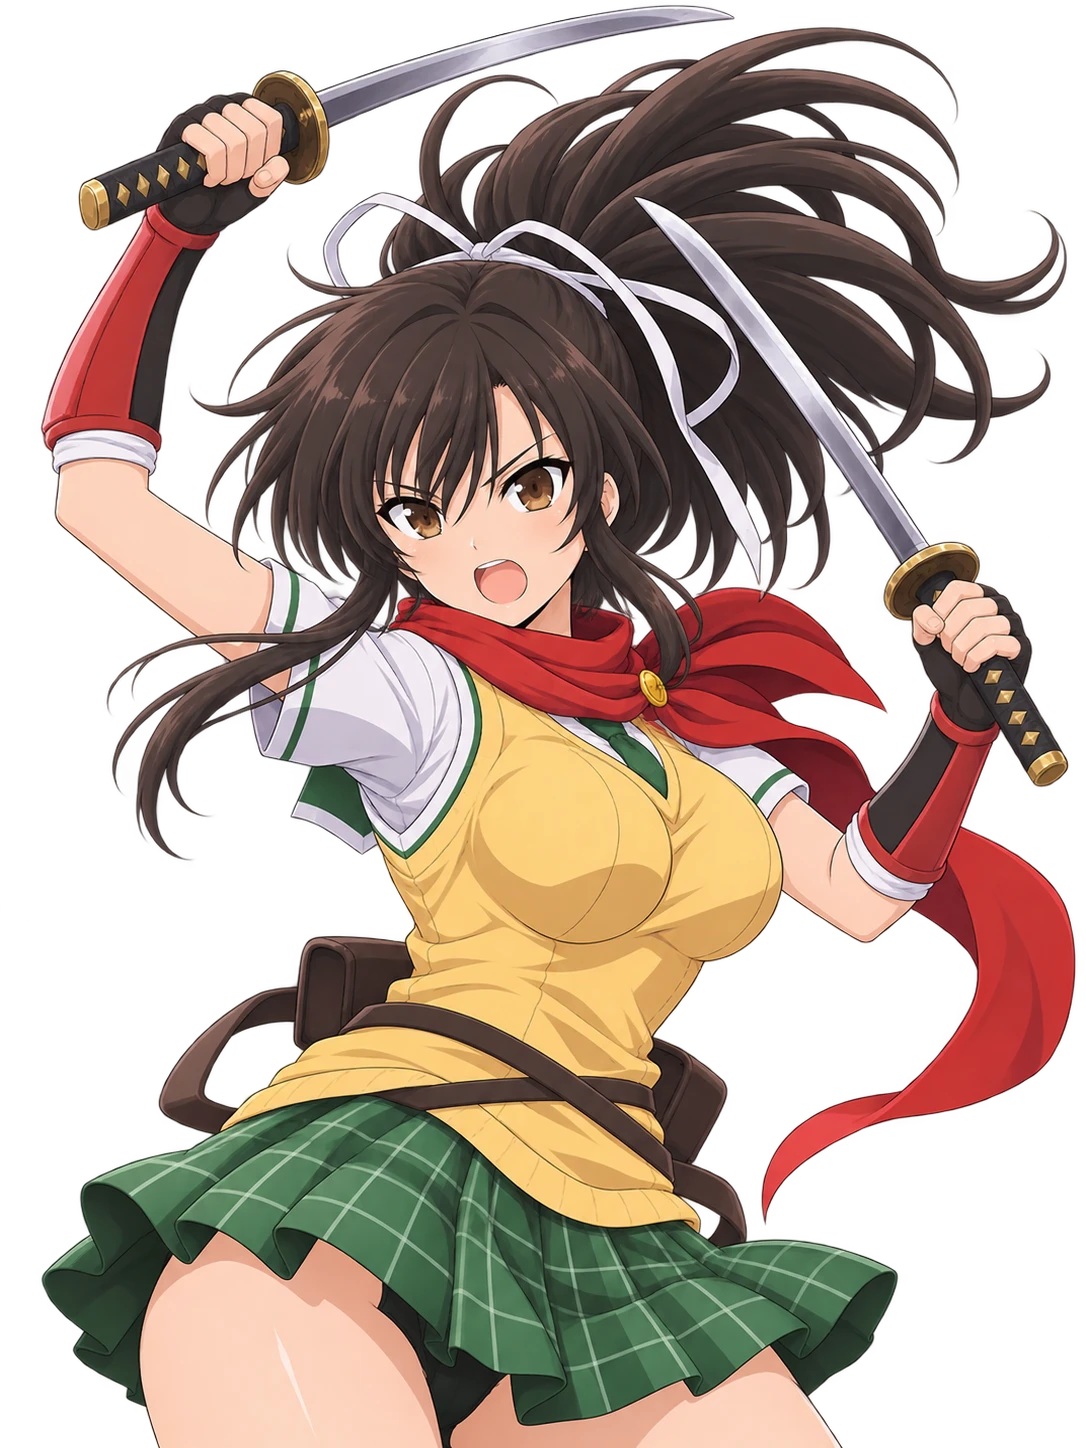
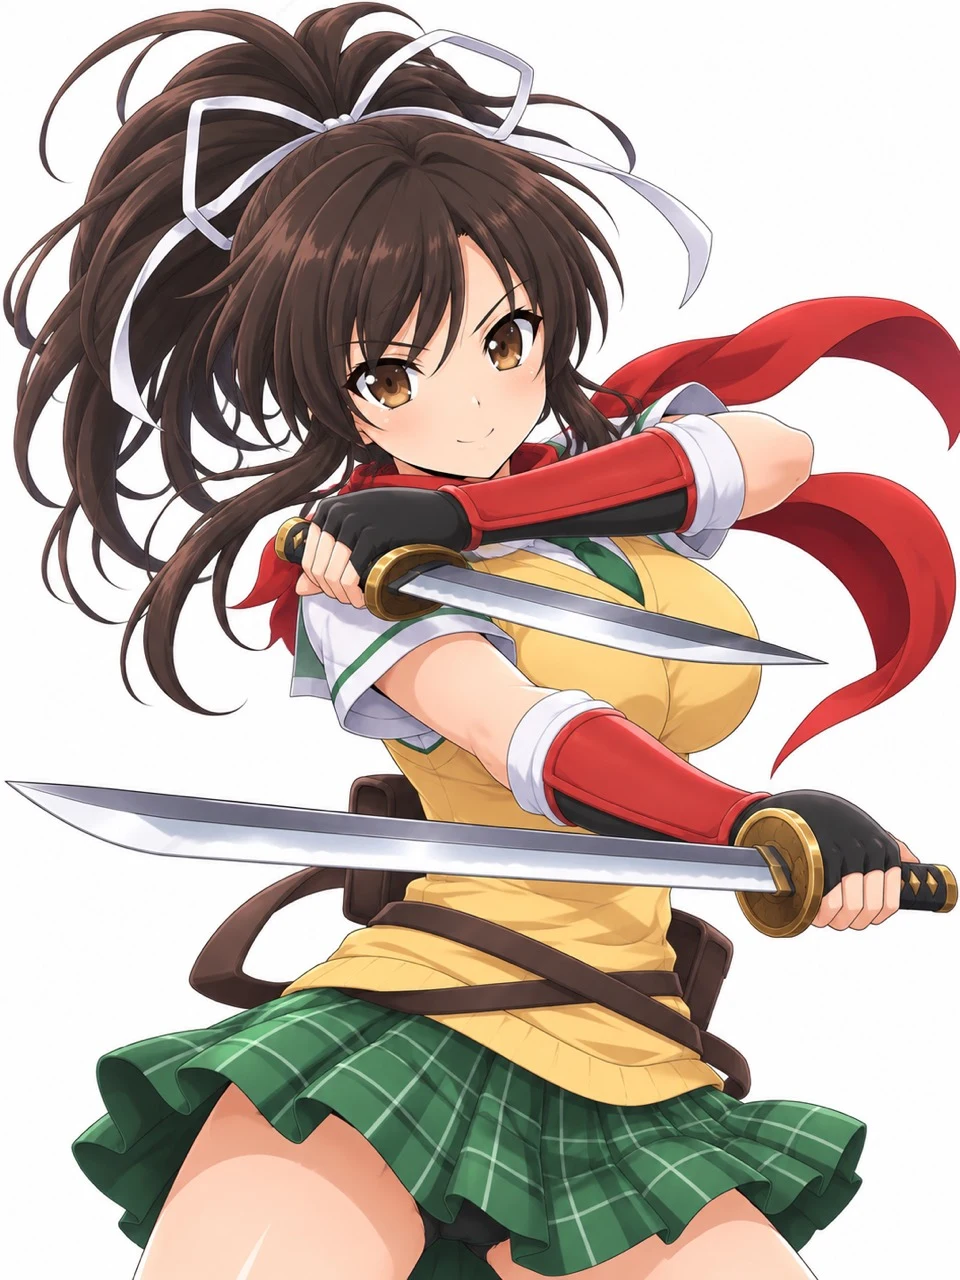
Replace Asuka character art for Lv1–5

diff --git a/index.html b/index.html
@@ -1904,7 +1904,7 @@ if(typeof module!=='undefined'&&module.exports)module.exports=Solver; else root.
    - 記録は人間・CPUの区別なく全判断を含む。再生は記録を使い切ったら
      元のコントローラ（人間／CPU）に引き継ぐ（＝ログからの再開）
    ========================================================= */
-const UI_VER='演出v2.9';
+const UI_VER='演出v3.0';
 (function(root){
 const LOG_VERSION='v'+CONFIG.ruleVersion;
 
@@ -2458,7 +2458,7 @@ function nvGauge(p,z){const arr=z==='yo'?p.gYo:p.gIn;
 // Presentation-only artwork mapping. Each character level has its own image slot.
 // Lv1-Lv5 currently point to the same file; replace individual entries to add unique art later.
 const UVS_CHAR_ART_PATH=Object.freeze({
-  '飛鳥':Object.freeze([null,'./assets/characters/asuka.webp','./assets/characters/asuka.webp','./assets/characters/asuka.webp','./assets/characters/asuka.webp','./assets/characters/asuka.webp']),
+  '飛鳥':Object.freeze([null,'./assets/characters/asuka.webp?v=3.0','./assets/characters/asuka.webp?v=3.0','./assets/characters/asuka.webp?v=3.0','./assets/characters/asuka.webp?v=3.0','./assets/characters/asuka.webp?v=3.0']),
   '斑鳩':Object.freeze([null,'./assets/characters/ikaruga.webp','./assets/characters/ikaruga.webp','./assets/characters/ikaruga.webp','./assets/characters/ikaruga.webp','./assets/characters/ikaruga.webp']),
   '葛城':Object.freeze([null,'./assets/characters/katsuragi.webp','./assets/characters/katsuragi.webp','./assets/characters/katsuragi.webp','./assets/characters/katsuragi.webp','./assets/characters/katsuragi.webp']),
   '柳生':Object.freeze([null,'./assets/characters/yagyu.webp','./assets/characters/yagyu.webp','./assets/characters/yagyu.webp','./assets/characters/yagyu.webp','./assets/characters/yagyu.webp']),
